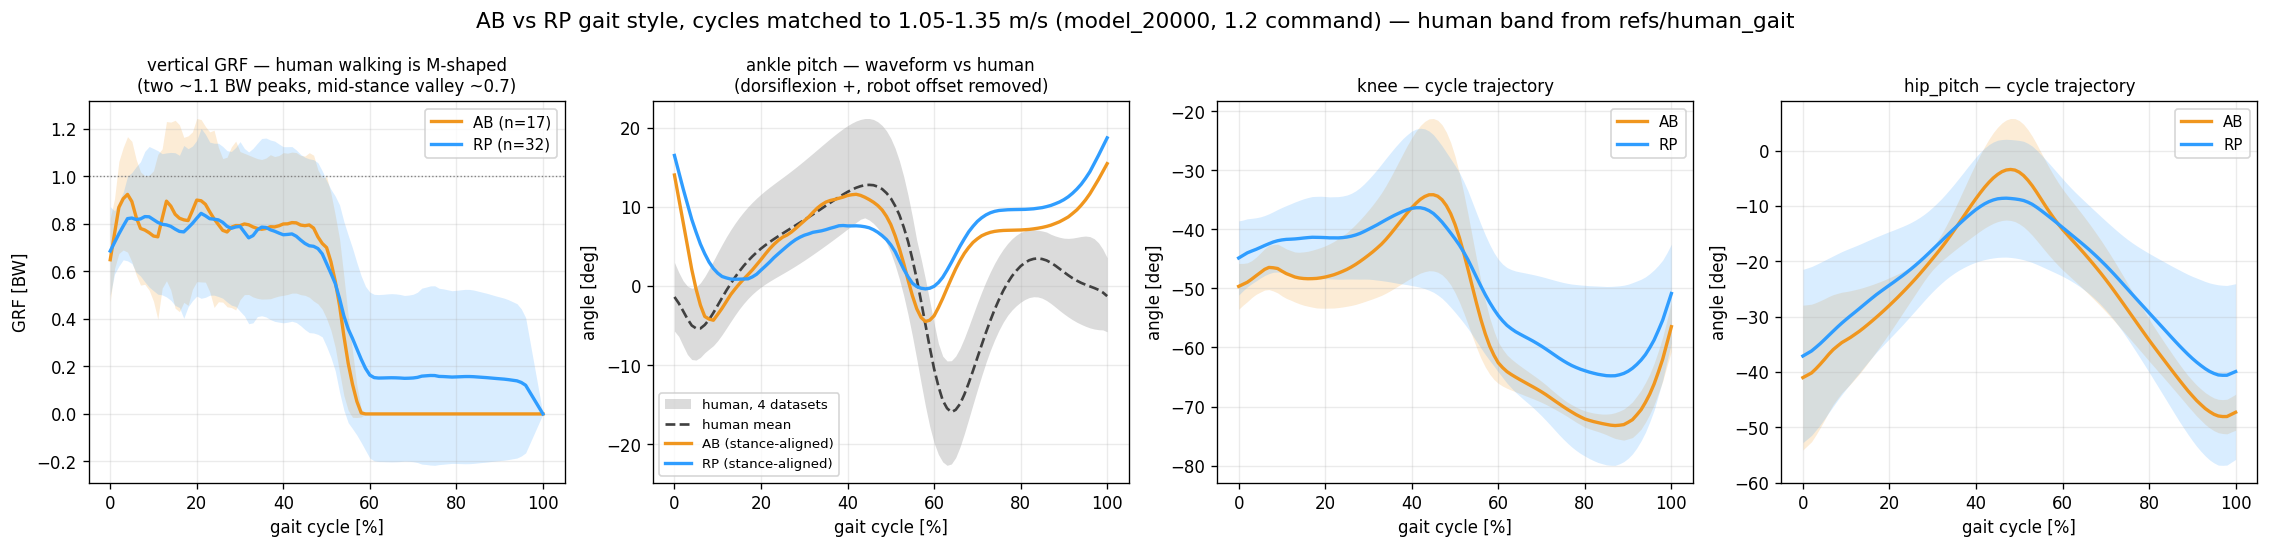
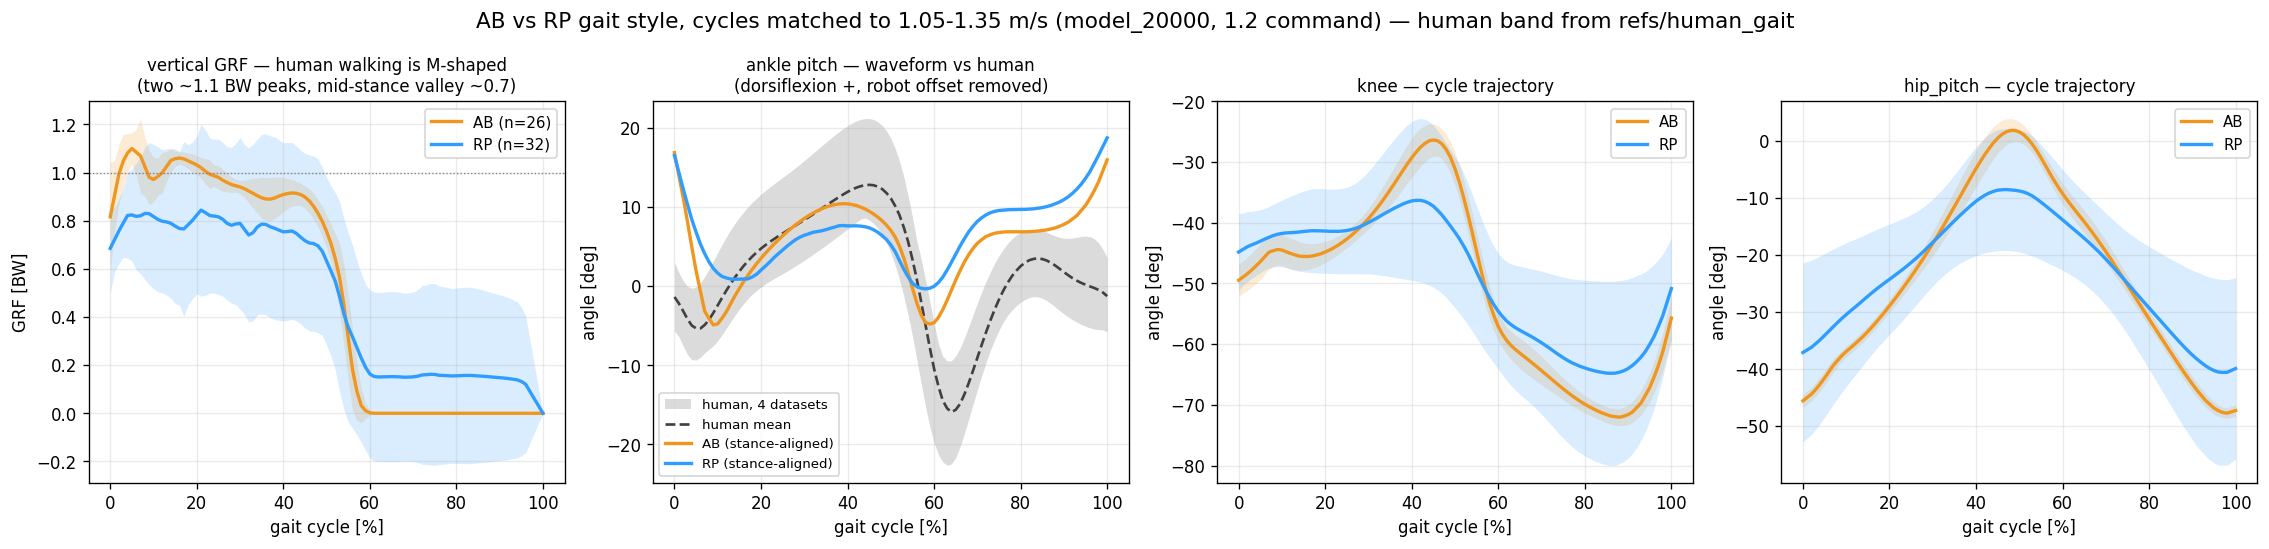
gait style corrected with a clean AB rollout: step width 273 vs 175 mm (+56%), duty equal at 0.55, AB reaches a 1.10 BW early-stance peak and a more human knee/ankle waveform; the AB stall is confirmed a probe artifact (12/12 success at 1.2 m/s) but RP tracks 1.2 m/s 32% better

diff --git a/tools/robot_model/loop_tests/apex_recheck.py b/tools/robot_model/loop_tests/apex_recheck.py
@@ -10,7 +10,7 @@ D, CK, TAG = sys.argv[1:4]
 VX = float(sys.argv[4]) if len(sys.argv) > 4 else 0.8
 OUT = '/home/syaro/pyg_fea/work/apex_recheck'; os.makedirs(OUT, exist_ok=True)
 sys.argv = ['measure_loads.py', '--run-dir', D, '--checkpoint', CK, '--tag', TAG, '--device', 'cpu',
-            '--steps-per-cmd', '750', '--warmup', '250', '--out-dir', OUT]
+            '--steps-per-cmd', os.environ.get('APEX_STEPS','750'), '--warmup', os.environ.get('APEX_WARMUP','250'), '--out-dir', OUT]
 sys.path.insert(0, 'analysis'); import measure_loads
 measure_loads.COMMAND_SCHEDULE = [(VX, 0.0, 0.0)]
 measure_loads.main()

diff --git a/docs/101_policy_spec_and_final_plan.md b/docs/101_policy_spec_and_final_plan.md
@@ -235,8 +235,9 @@ RS04 Kt 2.1·R 0.16 / RS03 Kt 2.36·R 0.39, G 9, η_gear 0.9, η_drive 0.80.
 | +0.8 전진 | **0.102** | 0.120 | 32/32 · 32/32 |
 | 0.8 측면 | 0.144 | **0.133** | 32/32 · 32/32 |
 | −0.8 후진 | 0.129 | 0.131 | 32/32 · 32/32 |
+| **+1.2 전진** (model_20000, 12 ep) | 0.157 | **0.106** | 12/12 · 12/12 |
 
-→ 전진은 AB가 15 % 낫고 측면은 RP가 8 % 낫다. **둘 다 낙상 0, 공개 휴머노이드 수치(0.05–0.12 m/s) 대역**.
+→ **속도에 따라 순위가 뒤집힌다**: 0.8 m/s는 AB가 15 % 낫고, 1.2 m/s는 RP가 32 % 낫다. 측면은 RP가 8 % 낫다. **둘 다 낙상 0, 공개 휴머노이드 수치(0.05–0.12 m/s) 대역**.
 
 ### 5g. 정성적 차이 — 발목을 쓰는 방식
 같은 롤아웃(iter 8000, 0.8 m/s, [[93_ankle_ab_rp_comparison_plan]] §5c, 영상 `abrp_shadow_g8000.mp4`):
@@ -246,43 +247,53 @@ RS04 Kt 2.1·R 0.16 / RS03 Kt 2.36·R 0.39, G 9, η_gear 0.9, η_drive 0.80.
 - 수직 GRF p99 1.26 vs 1.29 BW, 입각 리플 0.149 vs 0.155 → **동률**("RP가 더 떤다"는 iter 1200 인상은 8k에서 재현되지 않음).
 
 
-### 5g-2. ★ 보행 스타일 정량 비교 (model_20000, 명령 1.2 m/s, **속도 1.05–1.35 m/s 사이클만** 추출)
-인간 기준은 `refs/human_gait` 4개 데이터셋(101점 게이트 사이클). Moissenet 2019는 자유보행 1.157 m/s·48명·215시행이라 명령속도와 거의 일치한다.
-⚠ 속도가 다르면 보행 파라미터 비교가 무효라, **두 arm 모두 1.05–1.35 m/s 구간 사이클만** 골라 평균했다(AB 17 사이클 / RP 32).
+### 5g-2. ★ 보행 스타일 정량 비교 (model_20000, 명령 1.2 m/s, **속도 1.05–1.35 m/s 사이클만**)
+인간 기준은 `refs/human_gait` 4개 데이터셋(101점 게이트 사이클). Moissenet 2019는 자유보행 1.157 m/s·48명·215시행으로 명령속도와 거의 일치한다.
+⚠ 속도가 다르면 보행 파라미터 비교가 무효라 두 arm 모두 1.05–1.35 m/s 사이클만 평균했다(AB 26 / RP 32 사이클).
+⚠ AB의 첫 롤아웃은 중간 stall이 섞여 있어(§5g-3) **초기상태를 바꿔 재측정한 깨끗한 롤아웃**(20 s 내내 1.31–1.35 m/s)으로 교체했다.
 
 ![보행 스타일](img/abrp_gait_style_gait20k.png)
 
 | 시공간 지표 | AB | RP | 인간 @1.2 m/s |
 |---|---|---|---|
-| 케이던스 [steps/min] | 139 | **150** | ~110 |
-| 스트라이드 시간 [s] | 0.864 | 0.801 | ~1.1 |
-| 스트라이드 길이 [m] | **1.123** | 1.001 | ~1.35 |
-| duty factor (입각 비율) | **0.498** | 0.547 | ~0.60 |
-| 이중지지 [%] | 10.0 | 11.1 | ~20 |
-| **보폭(좌우) [m]** | **0.224** | **0.175** | ~0.10 |
-| 베이스 높이 [m] | 0.851 | 0.861 | — |
-| CoM 상하 진폭 [mm] | 41 | 44 | 40–50 ✓ |
+| 달성 속도 [m/s] | 1.307 (명령 초과) | 1.214 | 1.157 |
+| 케이던스 [steps/min] | 138 | **150** | ~110 |
+| 스트라이드 길이 [m] | **1.153** | 1.001 | ~1.35 |
+| duty factor | 0.558 | 0.547 | ~0.60 |
+| 이중지지 [%] | 11.7 | 11.1 | ~20 |
+| **보폭(좌우) [m]** | **0.273** | **0.175** | ~0.10 |
+| 베이스 높이 [m] | 0.850 | 0.861 | — |
+| CoM 상하 진폭 [mm] | 37 | 44 | 40–50 |
 
-**AB vs RP 스타일 차이**
-1. **AB는 넓게 걷는다** — 보폭 224 vs 175 mm(**+28 %**). 둘 다 인간(~100 mm)보다 훨씬 넓지만 AB가 특히 넓다.
-2. **AB는 크고 느린 걸음, RP는 잘고 빠른 걸음** — 스트라이드 1.12 m @139 spm vs 1.00 m @150 spm.
-3. **AB의 duty가 0.498로 0.5 미만** = 비행 구간이 생기는 영역(달리기 쪽). RP는 0.547로 확실한 보행.
-4. **무릎**: AB가 스윙에서 더 깊게 굽힌다(−73° vs −65°), 가동범위도 23 vs 20°.
-5. **엉덩이**: 궤적 모양은 같고 AB의 진폭이 크다(45 vs 31°).
+**AB vs RP 스타일 차이 (모두 같은 속도대에서)**
+1. **AB는 훨씬 넓게 걷는다** — 보폭 **273 vs 175 mm (+56 %)**. 두 롤아웃 모두에서 재현된 가장 강건한 차이다. 인간(~100 mm) 기준으로는 RP가 낫다.
+2. **AB는 크고 느린 걸음, RP는 잘고 빠른 걸음** — 스트라이드 1.15 m @138 spm vs 1.00 m @150 spm. AB가 **더 빠른데도 케이던스가 낮다** = 보폭 차이가 수치보다 더 크다.
+3. **입각 비율은 사실상 같다**(0.558 vs 0.547). 둘 다 인간(0.60)보다 짧다.
+4. **수직 GRF**: AB는 입각 초 **1.10 BW 첫 봉우리**를 만들고 0.9–1.0으로 유지, RP는 **0.8 평탄**. 인간의 M자 첫 봉우리(~1.1 BW)에는 AB가 근접하나 **둘 다 두 번째(밀어내기) 봉우리가 없다**.
+5. **발목**: AB 배측굴곡 +11°→저측 −5°, RP +8°→−1°. 인간은 +13°→**−17°**. **AB가 인간에 더 가깝지만 push-off 깊이는 1/3에 불과**하다.
+6. **무릎**: AB가 중간입각에서 더 편다(−27° vs −36°, 9° 더 신전) 그리고 스윙에서 더 굽힌다(−72° vs −65°). **인간의 무릎 패턴(입각 신전–스윙 굴곡)에 AB가 더 가깝다.**
+7. **엉덩이**: 궤적 모양 동일, AB 진폭이 크다(48° vs 31°).
 
-**둘 다 인간과 다른 점 (공통)**
-- **수직 GRF가 M자가 아니다.** 인간은 입각 초·말에 ~1.1 BW 두 봉우리와 중간 골(~0.7)을 만드는데, 두 arm 모두 **0.8 BW 평탄**이다. 무릎을 굽힌 채(스탠스에서도 −45~−50°) 상하 진동을 억제하며 걷는 "크라우치 워킹"의 전형이다.
-- **발목 push-off가 없다.** 인간은 62 %에서 **−17° 저측굴곡**으로 밀어내는데, AB는 −4°, RP는 −1°에 그친다. 다만 **배측굴곡 상승은 AB가 인간과 거의 겹친다**(+12° vs 인간 +13°, RP는 +8°).
-- **스윙 중 발목 자세가 틀리다.** 인간은 스윙에서 중립(~0°)으로 돌아오는데 두 arm 모두 +7~+15° 배측굴곡을 유지한다(발끝 걸림 회피 전략으로 보임).
-- 케이던스가 인간보다 26–36 % 높고 스트라이드가 17–26 % 짧다 = **잘고 빠른 걸음**.
+**둘 다 인간과 다른 공통점**
+- 스탠스에서도 무릎이 −45~−50°인 **크라우치 워킹** — 인간의 M자 GRF가 안 나오는 근본 원인.
+- **발목 push-off 부재**(−5°/−1° vs 인간 −17°).
+- 스윙 중 발목이 +7~+15° 배측굴곡 유지(인간은 중립 복귀) — 발끝 걸림 회피로 보임.
+- 케이던스 26–36 % 과다, 스트라이드 15–26 % 부족 = **잘고 빠른 걸음**.
+- 보폭이 인간의 1.8–2.7배.
 
-**인간 유사도 판정**: 발목 파형만 놓고 보면 **AB가 더 인간에 가깝다**(배측굴곡 진폭·push-off 깊이 모두). 시공간 지표는 **RP가 더 가깝다**(보폭이 인간에 가깝고 duty가 0.5 이상으로 보행 영역). 종합하면 **어느 쪽도 인간형 push-off를 못 하고 있고, 이것이 다음 세대의 가장 큰 개선 여지**다([[62_policy_reward_design_review]] §2 toe-off 스택).
+**인간 유사도 판정**: **파형(GRF·발목·무릎)은 AB가 확연히 더 인간에 가깝고, 시공간(보폭·명령추종)은 RP가 낫다.** 어느 쪽도 인간형 push-off를 못 한다 — 다음 세대의 최대 개선 여지([[62_policy_reward_design_review]] §2 toe-off 스택).
 
-### 5g-3. ⚠ AB의 유지-명령 stall (재발, 조사 중)
-model_20000·명령 1.2 m/s 롤아웃에서 **AB가 1.25 m/s로 6초 정상 보행 후 0.02 m/s까지 완전 정지**했다(2 s 창 평균: 1.22→1.26→0.73→0.16→0.05→0.02→0.59). RP는 같은 조건에서 1.23–1.27을 20초 내내 유지했다.
-- 같은 패턴이 12k 재측정(0.8 m/s)에서도 AB에 나타났고, 9.5k 유지-명령 프로브에서는 RP에 나타났다 — **단일 env 결정론 재생의 고분산**이라는 것이 지금까지의 해석이다([[95_soft_landing_prescription]] §7b).
-- 그러나 12k 내장 평가기(96 에피소드, 0.8 m/s)에서는 **두 arm 모두 stall 0**이었다. 이번 것은 **1.2 m/s + 만배 DR**이라 조건이 다르다.
-- ⇒ 평가기(12 env, 1.2 m/s, 20 s 고정)로 검증 중. 통계적으로 재현되면 AB의 실질적 결함이고, 안 되면 프로브 아티팩트다. **완주 전 반드시 결론 낼 것.**
+### 5g-3. AB의 유지-명령 stall — **프로브 아티팩트로 확정**
+model_20000·1.2 m/s 단일 롤아웃에서 AB가 6 s 정상 보행 후 0.02 m/s까지 정지했다(2 s 창 1.22→1.26→0.73→0.16→0.05→0.02→0.59).
+**검증**: 내장 평가기로 1.2 m/s를 리셋 시점부터 20 s 고정, **12 에피소드 × 2 arm**:
+
+| arm | 에피소드 | 성공률 | 추종오차 평균 | RMS | **최대** |
+|---|---|---|---|---|---|
+| AB | 12 | **100 %** | 0.157 | 0.174 | **0.378** |
+| RP | 12 | **100 %** | **0.106** | 0.132 | 0.356 |
+
+stall이 하나라도 있었다면 최대 오차가 ≥1.0이어야 한다(명령 1.2, 달성 ~0). **0.378 → stall 없음.** 초기상태를 바꾼 재측정에서도 20 s 내내 1.31–1.35 m/s로 정상이었다.
+⇒ **단일 env 결정론 프로브의 4번째 오판**이다([[95_soft_landing_prescription]] §7b 규칙 재확인). 다만 이 검증에서 **1.2 m/s 추종은 RP가 32 % 낫다**(0.106 vs 0.157)는 사실이 새로 나왔다 — 0.8 m/s에서는 AB가 나았으므로(0.102 vs 0.120) **속도에 따라 순위가 바뀐다**.
 
 ### 5h. 배포 비용
 | | AB | RP |
